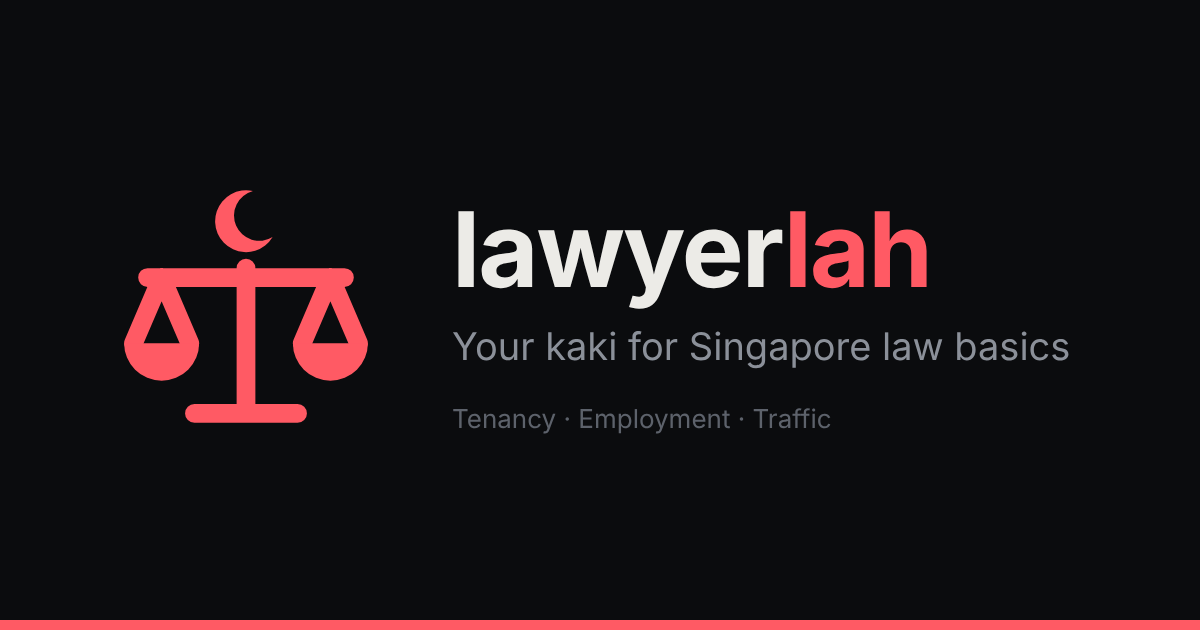
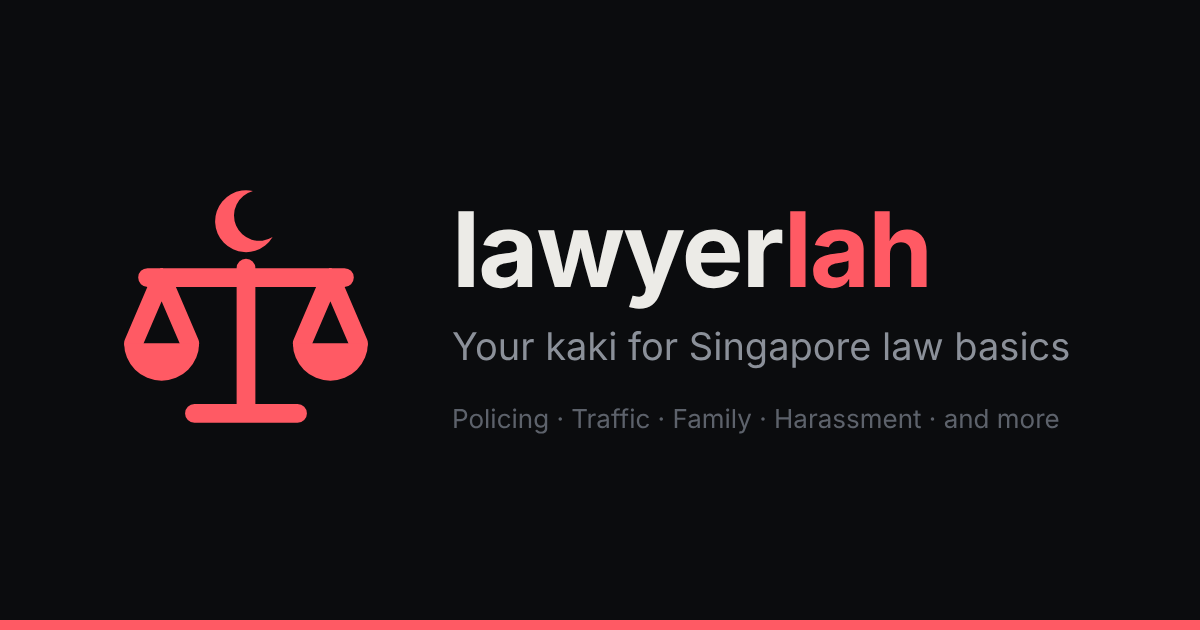
Coverage text matches the Acts loaded; real KV record shapes; Act name map
- Home page chips, browse list, /about, meta descriptions, OG image and the
  "Not covered" text now describe what is covered (policing and criminal
  procedure, traffic and road rules, family law, harassment, computer misuse,
  personal data, drugs, public order) instead of tenancy and employment.
- data/routes.json: tenancy and employment routes removed; traffic answers get
  the Traffic Police e-services, every answer gets Pro Bono SG. No criminal
  routes added: none can be cited from facts in the repo.
- acts:index read as an array of {code, act, ...}; the record "source" is
  plain text, so the footnote always links to https://sso.agc.gov.sg/.
  Schedule keys (Schedules, Schedule-First...) show as "First Schedule" etc.
- Keyword-step fallback names for all 33 codes (psa, moa, ea, rtr, rter, rtsn
  as given).
- Number check accepts bare speed figures from traffic-Act schedules for km/h;
  Schedule references are stripped from the short answer.
- Further-reading link also shows for police questioning / right to silence.

Claude-Session: https://claude.ai/code/session_014FsdEmMcuSeLY76q63zQBE

Changed region(s): [[0.37, 0.6333, 0.8942, 0.6937]]

diff --git a/worker/index.js b/worker/index.js
@@ -57,7 +57,7 @@ const POLICING_RE = /\b(police\w*|arrest\w*|detain\w*|detention|custody|remand\w
 const DRIVING_RE = /\b(speed\w*|km\/?h|driv\w*|expressways?|highways?|roads?|traffic|cars?|motor\w*|vehicles?|lanes?|licen[cs]es?|red light|PIE|AYE|CTE|ECP|BKE|KJE|SLE|TPE|KPE|MCE|NSC)\b/i;
 const SPEED_RE = /\b(speed\w*|km\/?h)\b/i;
 const EXPRESSWAY_RE = /\b(?:[Ee]xpressways?|[Hh]ighways?|PIE|AYE|CTE|ECP|BKE|KJE|SLE|TPE|KPE|MCE|NSC)\b/;
-const ACCUSED_RE = /\b(arrest\w*|accused|detain\w*|detention|custody|remand\w*|charged|interrogat\w*|police statements?|statements? to (the )?police|right to (a )?(lawyer|counsel|legal practitioner|remain silent)|(access|consult\w*) (to |with )?(a )?(lawyer|counsel|legal practitioner)|produced before (a )?magistrate|bail)\b/i;
+const ACCUSED_RE = /\b(arrest\w*|accused|detain\w*|detention|custody|remand\w*|charged|interrogat\w*|police statements?|statements? to (the )?police|right to (a )?(lawyer|counsel|legal practitioner|remain silent)|(access|consult\w*) (to |with )?(a )?(lawyer|counsel|legal practitioner)|produced before (a )?magistrate|bail|police (questions?|questioning|interviews?)|questioned by (the )?police|answer(ing)? (the )?police|(remain|keep|stay) silent|right to silence|self-incriminat\w*)\b/i;
 
 // Fixed text, added by the Worker (not the model) when a speed question mentions an expressway.
 const EXPRESSWAY_NOTE =
@@ -71,20 +71,30 @@ const FURTHER_READING = {
 };
 
 const SOURCE_NOTE = "Unofficial consolidation from SSO, check sso.agc.gov.sg for the official text";
+const SSO_HOME = "https://sso.agc.gov.sg/";
+
+// Section keys are mostly numbers ("63", "88A") but also "Schedules" and "Schedule-First" … "Schedule-Sixth".
+function sectionLabel(section) {
+  const m = /^Schedule-(\w+)$/i.exec(section);
+  if (m) return `${m[1][0].toUpperCase()}${m[1].slice(1).toLowerCase()} Schedule`;
+  if (/^Schedules?$/i.test(section)) return "Schedules";
+  return `section ${section}`;
+}
 
 // Names for the codes, used in the keyword prompt when KV "acts:index" can't be read.
 const CODE_NAMES = {
-  pc: "Penal Code", cpc: "Criminal Procedure Code", ea: "Evidence Act", cma: "Computer Misuse Act",
-  rta: "Road Traffic Act", pdpa: "Personal Data Protection Act", poha: "Protection from Harassment Act",
-  isa: "Internal Security Act", mda: "Misuse of Drugs Act", poa: "Public Order Act", vandal: "Vandalism Act",
-  gca: "Gambling Control Act", mla: "Moneylenders Act", pfa: "Police Force Act", arms: "Arms Offences Act",
-  ceswoa: "Corrosive and Explosive Substances and Offensive Weapons Act",
-  cltpa: "Criminal Law (Temporary Provisions) Act", pca: "Prevention of Corruption Act",
+  arms: "Arms Offences Act", ceswoa: "Corrosive and Explosive Substances and Offensive Weapons Act",
   cdsa: "Corruption, Drug Trafficking and Other Serious Crimes (Confiscation of Benefits) Act",
-  cypa: "Children and Young Persons Act", vaa: "Vulnerable Adults Act",
-  mhcta: "Mental Health (Care and Treatment) Act", coroners: "Coroners Act", immig: "Immigration Act",
-  rbda: "Registration of Births and Deaths Act", wc: "Women's Charter", const: "Constitution",
-  rtr: "Road Traffic Rules", rter: "Expressway Traffic Rules", rtsn: "Road Traffic (Restriction of Speed) Notification",
+  cltpa: "Criminal Law (Temporary Provisions) Act", cma: "Computer Misuse Act", const: "Constitution of the Republic of Singapore",
+  coroners: "Coroners Act", cpc: "Criminal Procedure Code", cypa: "Children and Young Persons Act",
+  ea: "Evidence Act 1893", gca: "Gambling Control Act", immig: "Immigration Act", isa: "Internal Security Act",
+  mda: "Misuse of Drugs Act", mhcta: "Mental Health (Care and Treatment) Act", mla: "Moneylenders Act",
+  moa: "Miscellaneous Offences (Public Order and Nuisance) Act 1906", ocha: "Online Criminal Harms Act",
+  pc: "Penal Code", pca: "Prevention of Corruption Act", pdpa: "Personal Data Protection Act", pfa: "Police Force Act",
+  poa: "Public Order Act", poha: "Protection from Harassment Act", psa: "Protection from Scams Act 2025",
+  rbda: "Registration of Births and Deaths Act", rta: "Road Traffic Act", rtr: "Road Traffic Rules",
+  rter: "Road Traffic (Expressway Traffic) Rules", rtsn: "Road Traffic (Restriction of Speed on Roads) Notification",
+  vaa: "Vulnerable Adults Act", vandal: "Vandalism Act", wc: "Women's Charter",
 };
 
 const KEYWORDS_PROMPT = `You turn a person's description of an everyday situation in Singapore into search terms for a database of Singapore Acts.
@@ -129,15 +139,13 @@ const isPlaceholder = (sec) => /PLACEHOLDER/.test(`${sec.text} ${sec.act}`);
 const CACHE_TTL_MS = 60 * 1000;
 let actsCache = null; // { at, promise }
 
-// acts:index may be an array of { code, act | name | title } or an object { code: name | { act } }.
+// acts:index is a JSON array of { code, act, version_in_force_from, sections }.
 function actNamesFrom(data) {
   const names = {};
-  const put = (code, v) => {
-    const name = typeof v === "string" ? v : v && (v.act || v.name || v.title);
-    if (KNOWN_CODES.has(String(code).toLowerCase()) && typeof name === "string") names[String(code).toLowerCase()] = name;
-  };
-  if (Array.isArray(data)) for (const v of data) put(v && (v.code || v.act_code), v);
-  else if (data && typeof data === "object") for (const [k, v] of Object.entries(data)) put(k, v);
+  for (const v of Array.isArray(data) ? data : []) {
+    const code = v && typeof v.code === "string" ? v.code.toLowerCase() : "";
+    if (KNOWN_CODES.has(code) && typeof v.act === "string" && v.act) names[code] = v.act;
+  }
   return names;
 }
 
@@ -231,7 +239,7 @@ async function retrieve(question, rewrite, env) {
         heading: String(r.heading || meta.heading || ""),
         text: text.length > SECTION_CHARS ? `${text.slice(0, SECTION_CHARS)} [section cut for length]` : text,
         inForceFrom: r.version_in_force_from ? String(r.version_in_force_from) : null,
-        source: typeof r.source === "string" && /^https:\/\/sso\.agc\.gov\.sg\//.test(r.source) ? r.source : null,
+        label: sectionLabel(String(r.section ?? meta.section ?? "")),
       };
     })
     .filter(Boolean);
@@ -290,15 +298,16 @@ function quantities(text) {
 }
 
 // Allowed number+unit pairs come only from the verbatim text of the sections given to the model (not the Act
-// name, section number or heading). The Act year never passes as a quantity. Speed tables often list a bare
-// number, so "N km/h" also passes when N appears in a section that talks about km/h.
+// name, section number or heading). The Act year never passes as a quantity. Speed tables (e.g. the rtsn
+// Schedules) often list a bare number, so "N km/h" also passes when N appears in a traffic-Act section or in a
+// section that talks about km/h.
 function numberGuard(sections, extraValues = []) {
   const pairs = new Set();
   const speedNumbers = new Set();
   for (const s of sections) {
     const qs = quantities(s.text);
     for (const q of qs) pairs.add(`${q.value}|${q.unit}`);
-    if (/km\/h/.test(normaliseUnits(s.text))) for (const q of qs) speedNumbers.add(q.value);
+    if (DRIVING_CODES.includes(s.code) || /km\/h/.test(normaliseUnits(s.text))) for (const q of qs) speedNumbers.add(q.value);
   }
   const actYears = new Set(sections.flatMap((s) => String(s.act).match(/\b(1[89]|20)\d{2}\b/g) || []));
   const extras = new Set(extraValues);
@@ -464,6 +473,7 @@ function stripRefs(s, entries = []) {
     .replace(/\b(?:the|this)\s+Act\b/gi, "the law")
     .replace(/\b(?:the\s+)?(?:Singapore\s+)?Constitution(?:\s+of\s+the\s+Republic\s+of\s+Singapore)?\b/g, "the law")
     .replace(/\b(this|that|the)\s+(?:sub-?)?section\b/gi, "$1 rule")
+    .replace(/\b(?:[Tt]he\s+)?(?:(?:First|Second|Third|Fourth|Fifth|Sixth|Seventh|Eighth|Ninth|Tenth)\s+)?Schedules?(?:-\w+)?\b(?:\s+to\s+the\s+law)?/g, "the schedule")
     .replace(/\s+([,.;:!?])/g, "$1")
     .replace(/([,;:])\s*([.!?])/g, "$2")
     .replace(/\s{2,}/g, " ")
@@ -484,7 +494,7 @@ function parseModel(text) {
 const NOT_COVERED = {
   notCovered: true,
   shortAnswer:
-    "Not covered. LawyerLah couldn't find a section in the Acts it has that answers this.",
+    "Not covered. LawyerLah couldn't find a section in the Acts it has that answers this. It covers policing and criminal procedure, traffic and road rules, family law (Women's Charter), harassment, computer misuse, personal data, drugs and public order.",
   figuresNote: null,
   howItApplies: "",
   depends: [
@@ -508,14 +518,11 @@ function tidy(text, sections) {
     .replace(/(^|[.!?]\s+)([a-z])/g, (m, a, b) => a + b.toUpperCase());
 }
 
-// Official routes: traffic Acts get the traffic routes; anything else gets the general Pro Bono SG route.
+// Official routes: answers from the traffic Acts get the traffic routes; every answer gets the general routes.
 const TRAFFIC_CODES = new Set(DRIVING_CODES);
 function routesFor(sections) {
-  const all = Object.values(officialRoutes.topics).flat();
-  const general = all.filter((r, i) => r.name.startsWith("Pro Bono SG") && all.findIndex((x) => x.name === r.name) === i);
-  const routes = sections.some((s) => TRAFFIC_CODES.has(s.code)) ? [...(officialRoutes.topics.traffic || [])] : [];
-  for (const r of general) if (!routes.some((x) => x.name === r.name)) routes.push(r);
-  return routes;
+  const traffic = sections.some((s) => TRAFFIC_CODES.has(s.code)) ? officialRoutes.topics.traffic || [] : [];
+  return [...traffic, ...(officialRoutes.topics.general || [])];
 }
 
 // ---------------------------------------------------------------- routes
@@ -609,7 +616,9 @@ async function handleAsk(request, env) {
       section: s.section,
       heading: s.heading,
       inForceFrom: s.inForceFrom,
-      sourceUrl: demo ? null : s.source,
+      label: s.label,
+      // The record's "source" is plain text, not a link, so the footnote links to SSO itself, not to a section.
+      sourceUrl: demo ? null : SSO_HOME,
       note: SOURCE_NOTE,
     })),
     furtherReading: ACCUSED_RE.test(topic) ? FURTHER_READING : null,

diff --git a/web/index.html b/web/index.html
@@ -4,7 +4,7 @@
   <meta charset="utf-8">
   <meta name="viewport" content="width=device-width, initial-scale=1, viewport-fit=cover">
   <title>lawyerlah · Your kaki for Singapore law basics</title>
-  <meta name="description" content="Describe an everyday situation in Singapore (tenancy, employment, traffic) and see which Act and section seems relevant, in plain English. Not legal advice.">
+  <meta name="description" content="Describe an everyday situation in Singapore and see what the Acts say, in plain English: policing and criminal procedure, traffic and road rules, family law (Women's Charter), harassment, computer misuse, personal data, drugs and public order. Not legal advice.">
   <meta name="theme-color" content="#0b0c0e">
   <meta name="color-scheme" content="dark">
   <meta name="robots" content="noindex, nofollow, noarchive, nosnippet">
@@ -46,16 +46,16 @@
 
     <form id="ask" class="ask" novalidate>
       <label for="q" class="ask-label">Describe your situation</label>
-      <textarea id="q" name="question" rows="4" maxlength="500" placeholder="e.g. My landlord wants me to pay for repainting the whole flat when I move out" required></textarea>
+      <textarea id="q" name="question" rows="4" maxlength="500" placeholder="e.g. The police stopped me on the street and want to search my bag" required></textarea>
       <div class="ask-row">
         <span id="count" class="count" aria-live="polite">0 / 500</span>
         <button id="submit" class="btn btn-primary" type="submit">Ask</button>
       </div>
       <p id="ask-error" class="field-error" role="alert" hidden></p>
       <div class="chips" aria-label="Examples">
-        <button type="button" class="chip">My landlord is keeping my whole deposit for small marks on the wall</button>
-        <button type="button" class="chip">My boss makes me work overtime every day without extra pay</button>
-        <button type="button" class="chip">I was caught driving 20 km/h over the speed limit</button>
+        <button type="button" class="chip">Can police search me without a warrant?</button>
+        <button type="button" class="chip">What is the speed limit on an expressway?</button>
+        <button type="button" class="chip">Do I have to answer police questions?</button>
       </div>
     </form>
 
@@ -115,31 +115,77 @@
       <ul class="topic-list">
         <li>
           <details>
-            <summary><span class="topic-name">Tenancy</span><span class="topic-sub">Renting a room or flat, deposits, rent, ending a lease</span></summary>
+            <summary><span class="topic-name">Policing and criminal procedure</span><span class="topic-sub">Arrest, searches, police questioning, bail, seeing a lawyer</span></summary>
             <div class="topic-qs">
-              <button type="button" class="chip">My landlord wants to end my lease early because I paid rent late</button>
-              <button type="button" class="chip">I owe two months of rent and my landlord says he will take my things</button>
-              <button type="button" class="chip">My landlord won't return my deposit after I moved out</button>
+              <button type="button" class="chip">What happens after someone is arrested?</button>
+              <button type="button" class="chip">Can I see a lawyer after being arrested?</button>
+              <button type="button" class="chip">How long can police hold someone before they see a Magistrate?</button>
             </div>
           </details>
         </li>
         <li>
           <details>
-            <summary><span class="topic-name">Employment</span><span class="topic-sub">Notice, working hours, overtime, leave</span></summary>
+            <summary><span class="topic-name">Traffic and road rules</span><span class="topic-sub">Speed limits, careless driving, drink driving, road rules</span></summary>
             <div class="topic-qs">
-              <button type="button" class="chip">How much notice do I give if I want to resign?</button>
-              <button type="button" class="chip">My boss makes me work 12 hours a day</button>
-              <button type="button" class="chip">How many days of annual leave do I get after two years?</button>
+              <button type="button" class="chip">What is the speed limit on normal roads?</button>
+              <button type="button" class="chip">What happens if someone drives after drinking?</button>
+              <button type="button" class="chip">Can I use my phone while driving?</button>
             </div>
           </details>
         </li>
         <li>
           <details>
-            <summary><span class="topic-name">Traffic</span><span class="topic-sub">Speeding, careless driving, drink driving</span></summary>
+            <summary><span class="topic-name">Family law (Women's Charter)</span><span class="topic-sub">Marriage, divorce, maintenance, family violence</span></summary>
             <div class="topic-qs">
-              <button type="button" class="chip">I was caught speeding on the expressway</button>
-              <button type="button" class="chip">I changed lanes without signalling and a car hit me</button>
-              <button type="button" class="chip">I had two beers at dinner and drove home</button>
+              <button type="button" class="chip">How does a divorce start?</button>
+              <button type="button" class="chip">Can a spouse be asked to pay maintenance?</button>
+              <button type="button" class="chip">How do I get a protection order against a family member?</button>
+            </div>
+          </details>
+        </li>
+        <li>
+          <details>
+            <summary><span class="topic-name">Harassment</span><span class="topic-sub">Threats, stalking, false statements, online abuse</span></summary>
+            <div class="topic-qs">
+              <button type="button" class="chip">Someone keeps sending me threatening messages</button>
+              <button type="button" class="chip">Can I stop someone posting false things about me online?</button>
+              <button type="button" class="chip">What counts as stalking?</button>
+            </div>
+          </details>
+        </li>
+        <li>
+          <details>
+            <summary><span class="topic-name">Computer misuse</span><span class="topic-sub">Hacking, logging into accounts, misuse of passwords</span></summary>
+            <div class="topic-qs">
+              <button type="button" class="chip">Someone logged into my account without permission</button>
+              <button type="button" class="chip">Is sharing someone else's password an offence?</button>
+            </div>
+          </details>
+        </li>
+        <li>
+          <details>
+            <summary><span class="topic-name">Personal data</span><span class="topic-sub">How organisations collect, use and protect your data</span></summary>
+            <div class="topic-qs">
+              <button type="button" class="chip">A company leaked my personal data</button>
+              <button type="button" class="chip">Can a company use my data for marketing without asking?</button>
+            </div>
+          </details>
+        </li>
+        <li>
+          <details>
+            <summary><span class="topic-name">Drugs</span><span class="topic-sub">Possession, consumption, trafficking</span></summary>
+            <div class="topic-qs">
+              <button type="button" class="chip">What happens if drugs are found in my bag?</button>
+              <button type="button" class="chip">What does trafficking mean for drugs?</button>
+            </div>
+          </details>
+        </li>
+        <li>
+          <details>
+            <summary><span class="topic-name">Public order</span><span class="topic-sub">Protests, public assemblies, nuisance in public places</span></summary>
+            <div class="topic-qs">
+              <button type="button" class="chip">Do I need a permit to hold a protest?</button>
+              <button type="button" class="chip">What happens if someone is drunk and noisy in public?</button>
             </div>
           </details>
         </li>

diff --git a/web/about.html b/web/about.html
@@ -43,9 +43,8 @@
   <main class="about">
     <h1 class="about-title">About lawyerlah</h1>
     <p>You describe an everyday situation in Singapore, and lawyerlah points to which Act and section seems to be relevant, then explains what that section says in plain English and what is unclear or depends on the facts.</p>
-    <p>For now it only covers a few sections on three topics: tenancy, employment and traffic. If nothing fits, it says the question is not covered.</p>
-    <p>It never tells you whether something is allowed or not, never gives a verdict and never tells you what to do. Each answer links to the section on Singapore Statutes Online so you can read the actual wording, and lists official routes that may apply (such as MOM, HDB, the Small Claims Tribunals, Pro Bono SG or the police) with their conditions and links.</p>
-    <p>While the law text is still being prepared, answers built on placeholder text are marked <strong>DEMO DATA, not real law</strong> and have no link to a section.</p>
+    <p>It covers policing and criminal procedure, traffic and road rules, family law (Women's Charter), harassment, computer misuse, personal data, drugs and public order. It does not cover tenancy or employment. If nothing fits, it says the question is not covered.</p>
+    <p>It never tells you whether something is allowed or not, never gives a verdict and never tells you what to do. Each answer names the Act and section it is based on and links to Singapore Statutes Online so you can read the official wording, and lists official routes that may apply (such as Pro Bono SG or the Traffic Police e-services) with their conditions and links.</p>
     <p>You can ask up to 10 questions a day. Your IP address is not stored: only a one-way hash of it is used to count questions, and it expires after two days. If you mark an answer as Helpful or Wrong, the question and the section shown are saved so the answers can be improved.</p>
 
     <h2 class="section-title">Disclaimer</h2>

diff --git a/web/app.js b/web/app.js
@@ -112,7 +112,7 @@ function renderSources(sources) {
   for (const s of sources) {
     const p = document.createElement("p");
     const heading = s.heading || s.title;
-    p.append(`Source: ${s.act}, section ${s.section}${heading ? ` (${heading})` : ""}`);
+    p.append(`Source: ${s.act}, ${s.label || `section ${s.section}`}${heading ? ` (${heading})` : ""}`);
     if (s.inForceFrom) p.append(` · version in force from ${s.inForceFrom}`);
     p.append(" · ");
     if (s.note) {
